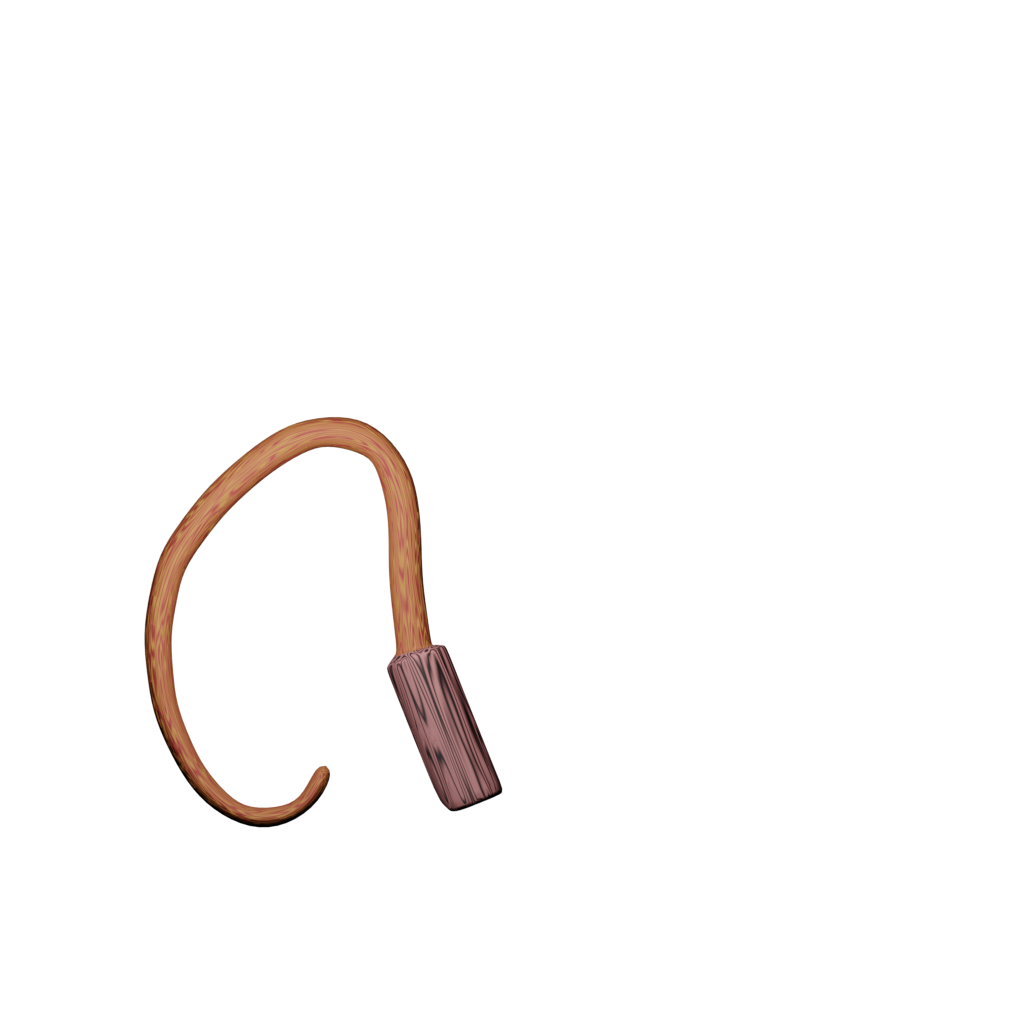
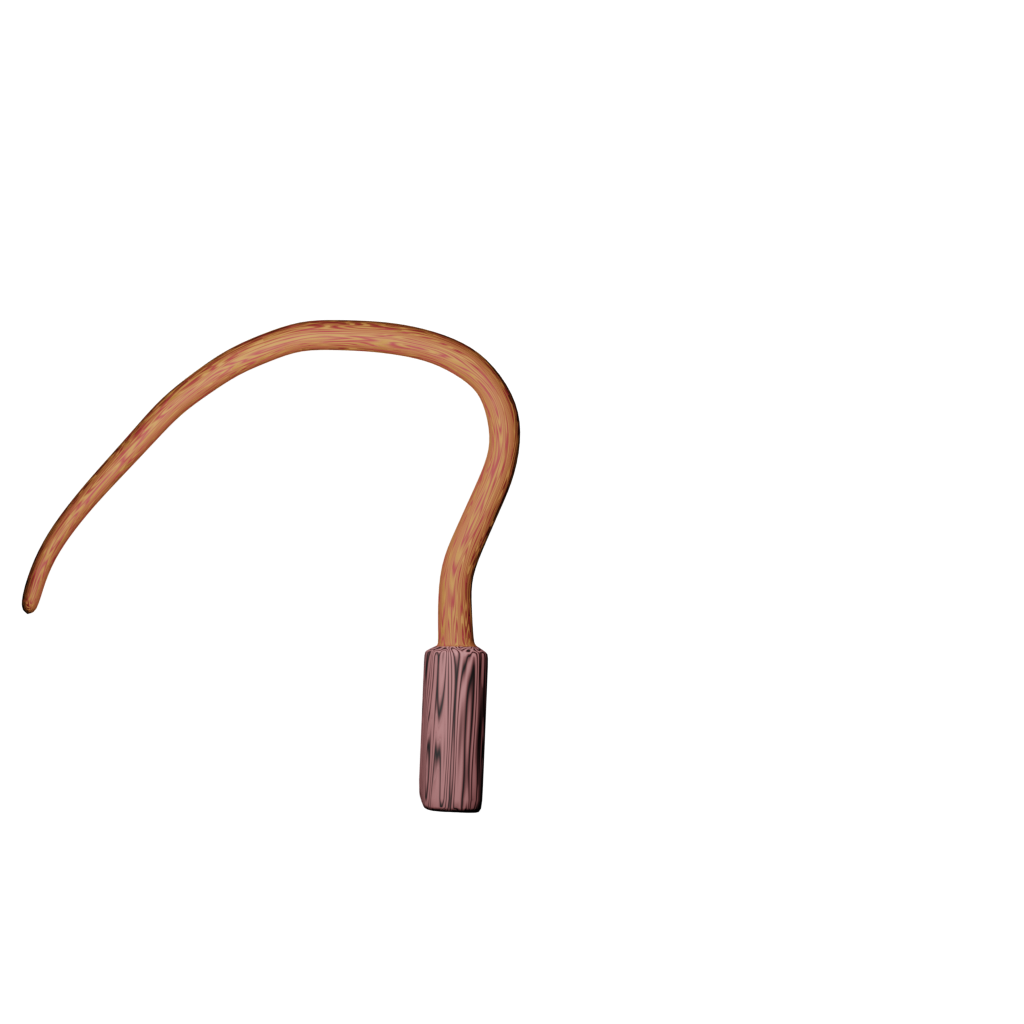
Meme: Make `whip` animation faster
As per request of a few users, which claimed that the creation took
too long.

Changed region(s): [[0.0, 0.3125, 0.5312, 0.8125]]

diff --git a/cogs/meme/meme.py b/cogs/meme/meme.py
@@ -84,7 +84,7 @@ class Meme(rubbercog.Rubbercog):
                     format="GIF",
                     save_all=True,
                     append_images=frames[1:],
-                    duration=30,
+                    duration=60,
                     loop=0,
                     transparency=0,
                     disposal=2,
@@ -471,12 +471,12 @@ class Meme(rubbercog.Rubbercog):
         """Get frames for the whip"""
         frames = []
         width, height = 250, 150
-        deformation = (0, 0, 0, 0, 0, 0, 0, 0, 2, 3, 5, 9, 6, 4, 3, 0, 0, 0, 0, 0, 0, 0, 0, 0, 0, 0)
-        translation = (0, 0, 0, 0, 0, 0, 0, 0, 0, 1, 2, 2, 3, 3, 3, 2, 1, 0, 0, 0, 0, 0, 0, 0, 0, 0)
+        deformation = (0, 0, 3, 3, 0, 0, 0)
+        translation = (0, 0, 1, 3, 1, 0, 0)
 
         avatar = Meme.round_image(avatar.resize((100, 100)))
 
-        for i in range(26):
+        for i in range(7):
             img = "%02d" % (i + 1)
             frame = Image.new("RGBA", (width, height), (54, 57, 63, 1))
             whip_frame = Image.open(f"data/meme/whip/{img}.png").resize((150, 150))
